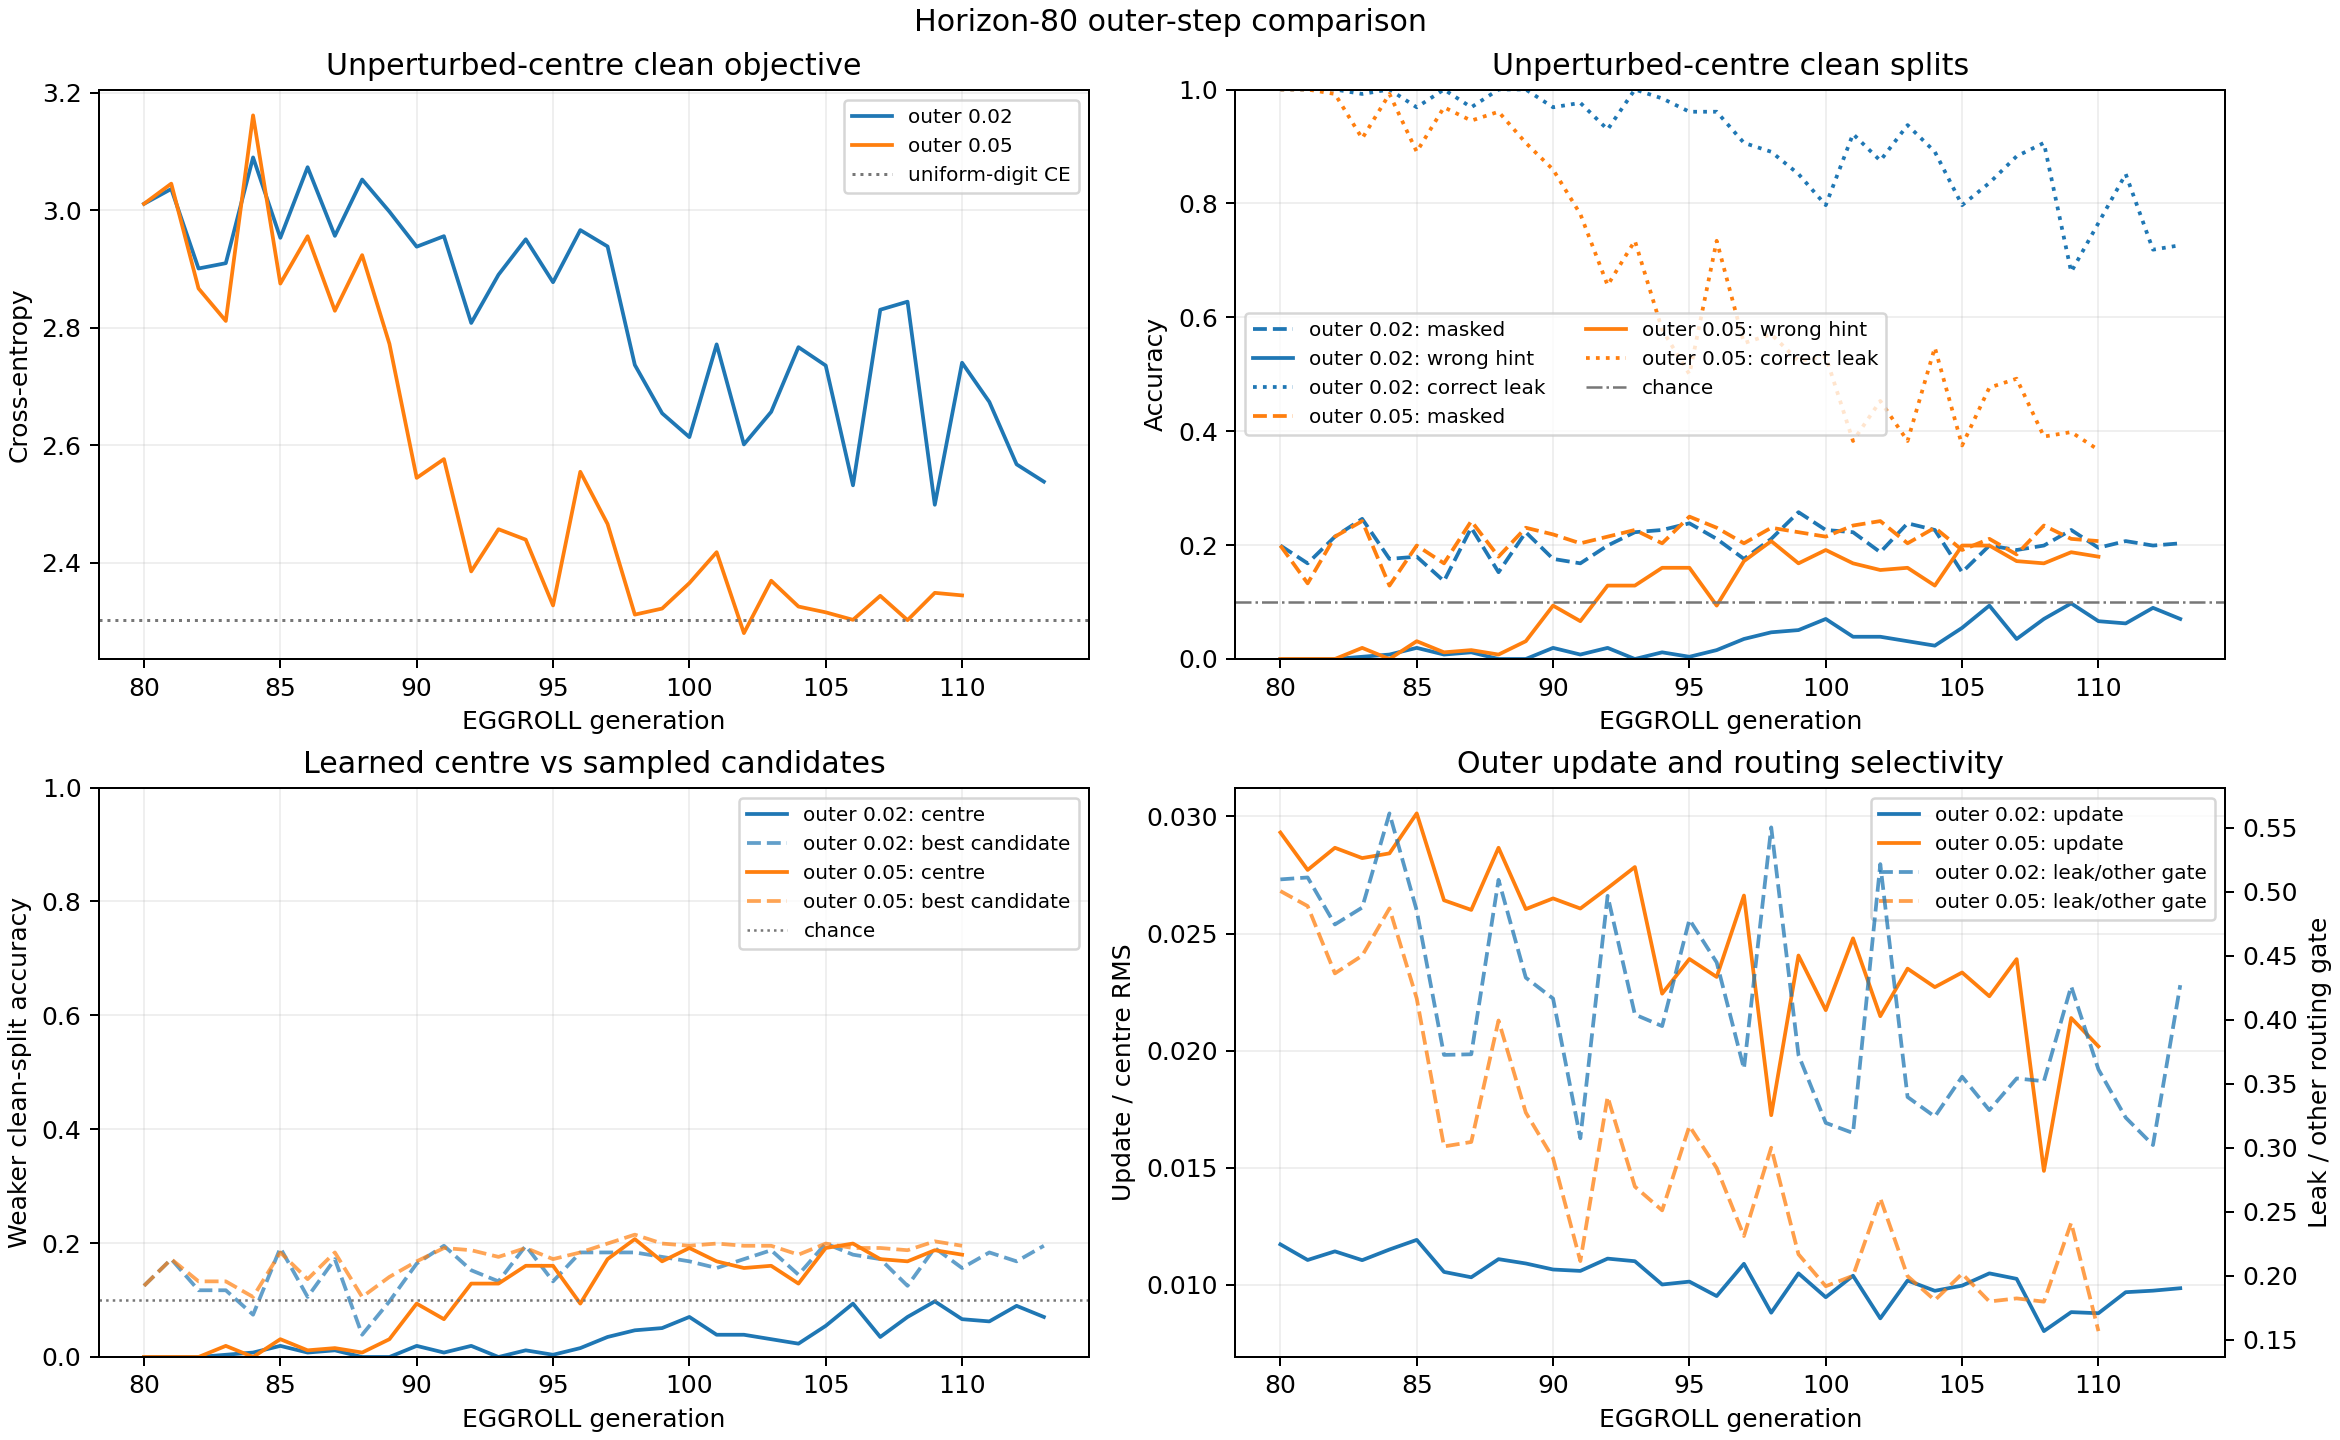
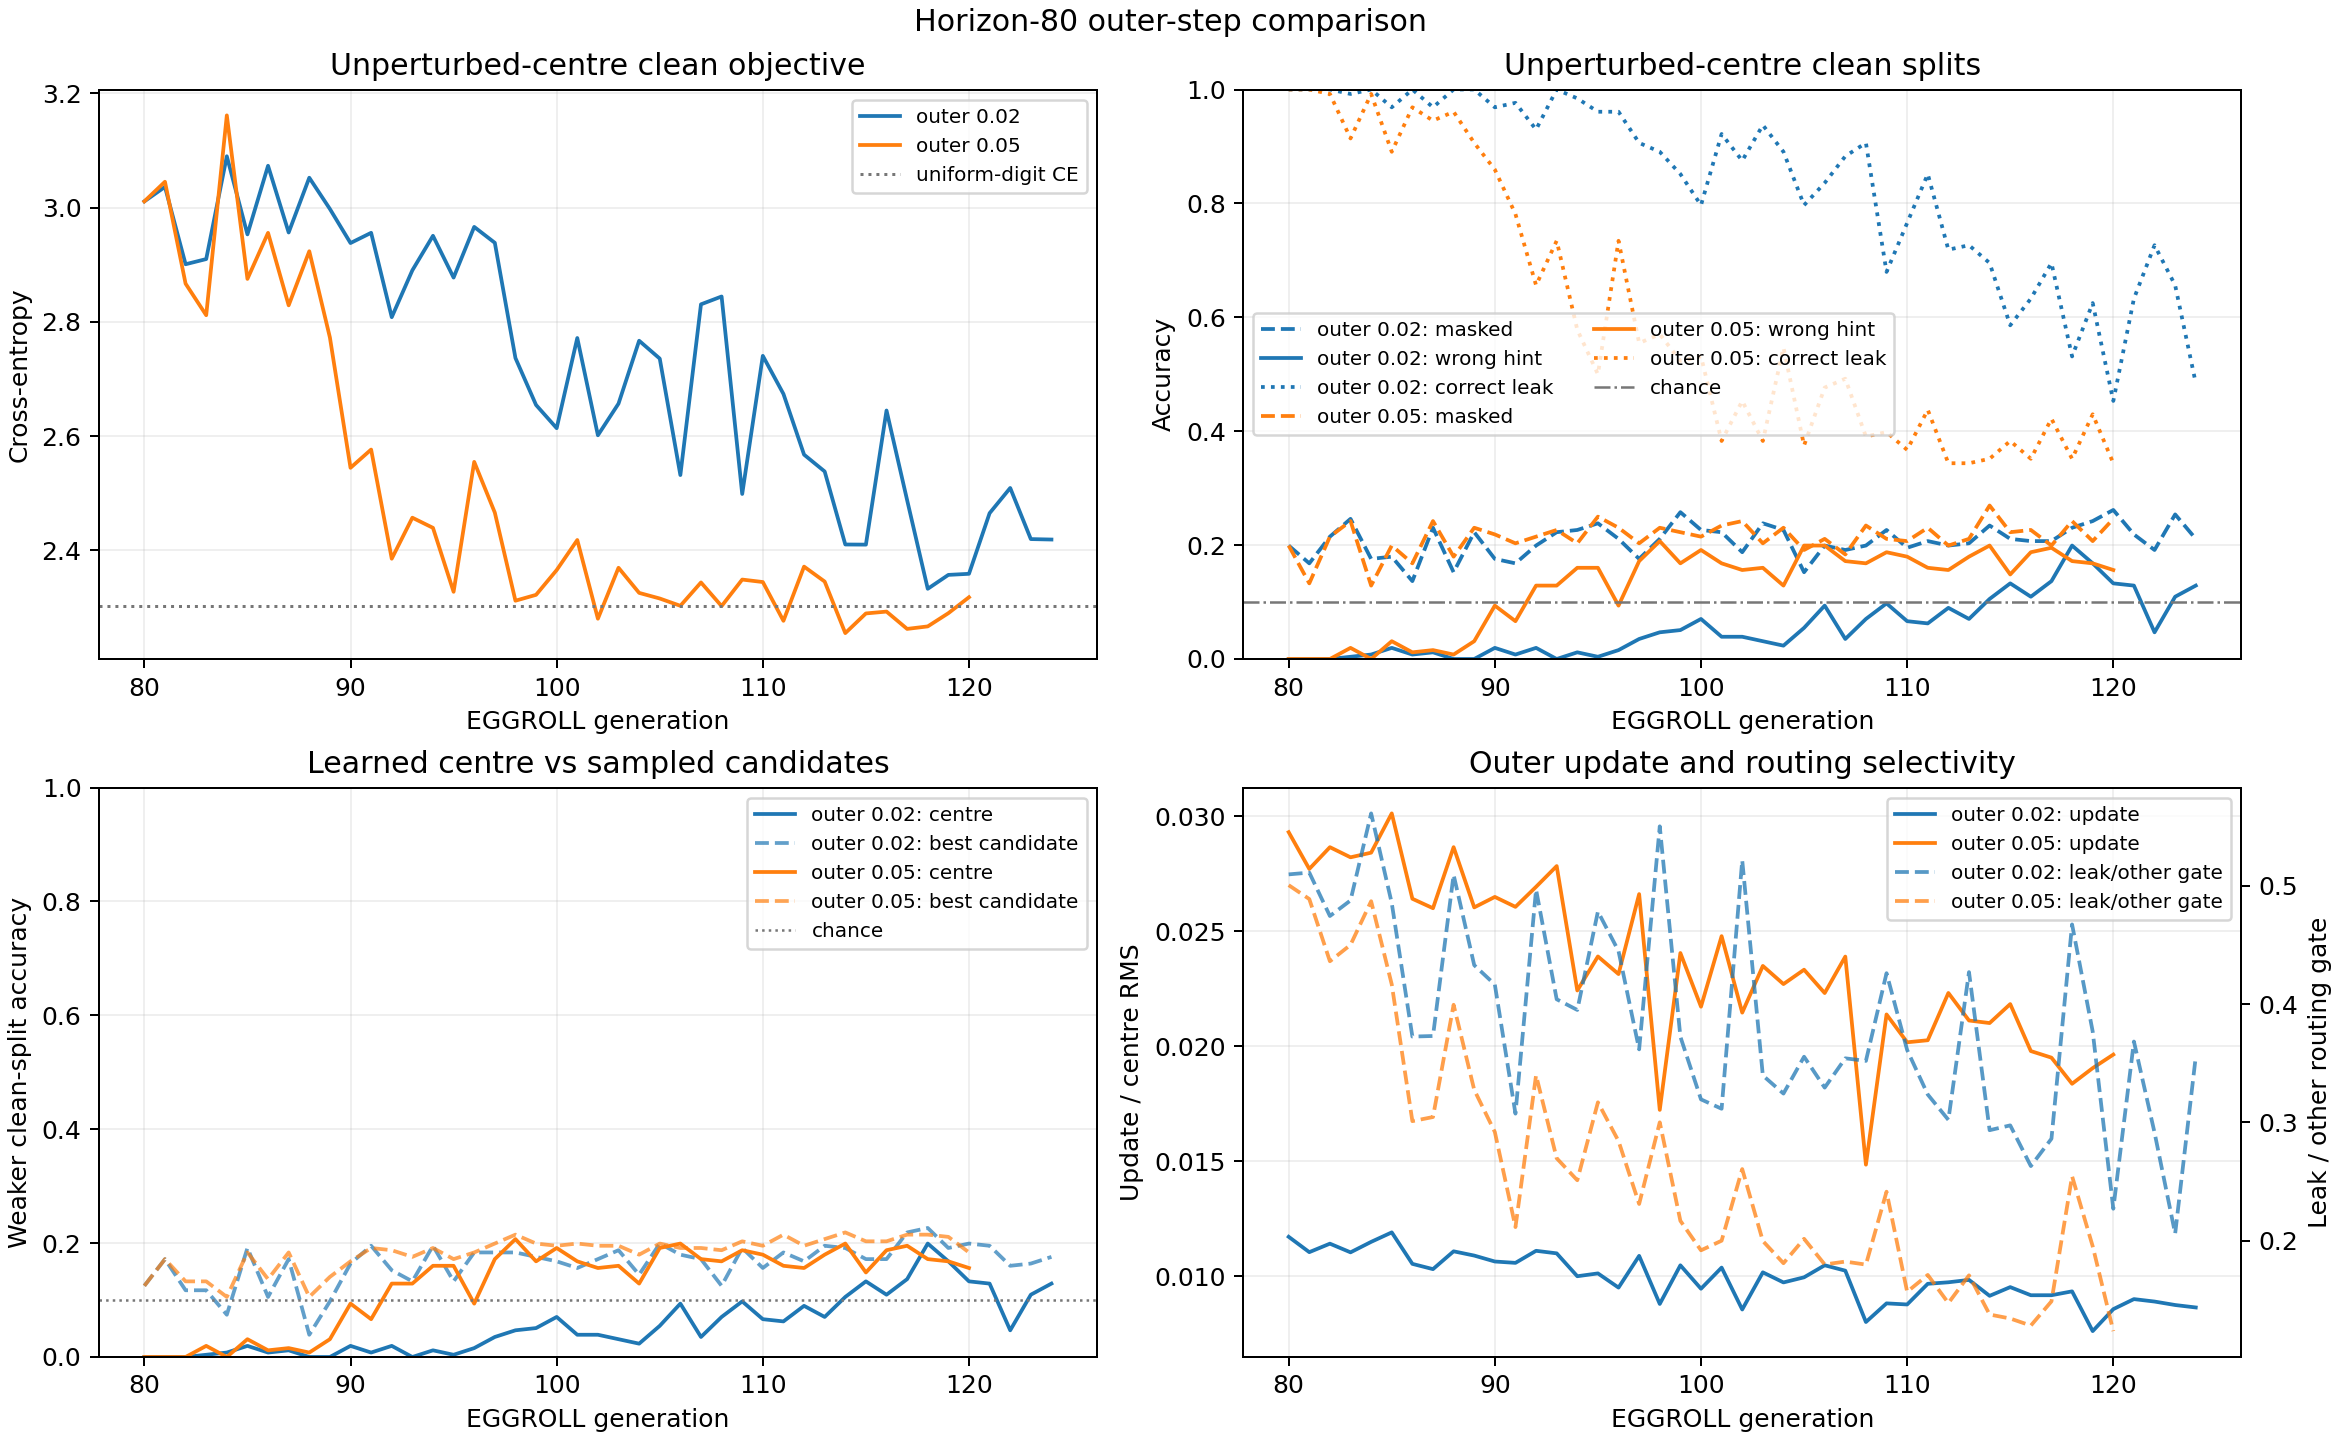
Record delayed conservative router learning

diff --git a/experiments/learned_backward_shortcuts/PROGRESS.md b/experiments/learned_backward_shortcuts/PROGRESS.md
@@ -1114,6 +1114,23 @@ The next capacity test should therefore preserve the learned centre and
 increase the inner horizon after its horizon-80 behavior is shown to be
 stable.
 
+The fourth window shows the conservative centre continuing to catch up:
+
+| Generations 110-119 | Clean CE | Masked | Wrong hint | Correct leak | Minimum clean split | Robust candidate min | Centre leak ratio | Centre update / RMS |
+| --- | ---: | ---: | ---: | ---: | ---: | ---: | ---: | ---: |
+| Conservative (`0.02`) | 2.5164 | 21.37% | 11.41% | 68.28% | 11.41% | 18.75% | 0.340 | 0.92% |
+| Medium (`0.05`) | 2.2997 | 22.15% | 17.46% | 37.81% | 17.46% | 20.78% | 0.165 | 2.04% |
+
+Conservative wrong-hint accuracy has now risen monotonically across the four
+matched windows: `0.51%`, `2.11%`, `5.55%`, then `11.41%`. This confirms that
+the smaller outer step was delayed rather than inert. The medium branch is
+instead stabilizing near the horizon-80 oracle range. Its centre remains
+`3.32` percentage points below its robust sampled candidates on the weaker
+split, while the conservative gap is `7.34` points. Both branches remain
+useful: medium tests the attainable horizon-80 solution, and conservative
+tests whether a slower trajectory eventually reaches similar selectivity with
+less loss of correct-leak performance.
+
 ![Horizon-80 centre-step comparison](results/attention_router_center_step_comparison.png)
 
 #### Learned routing structure
